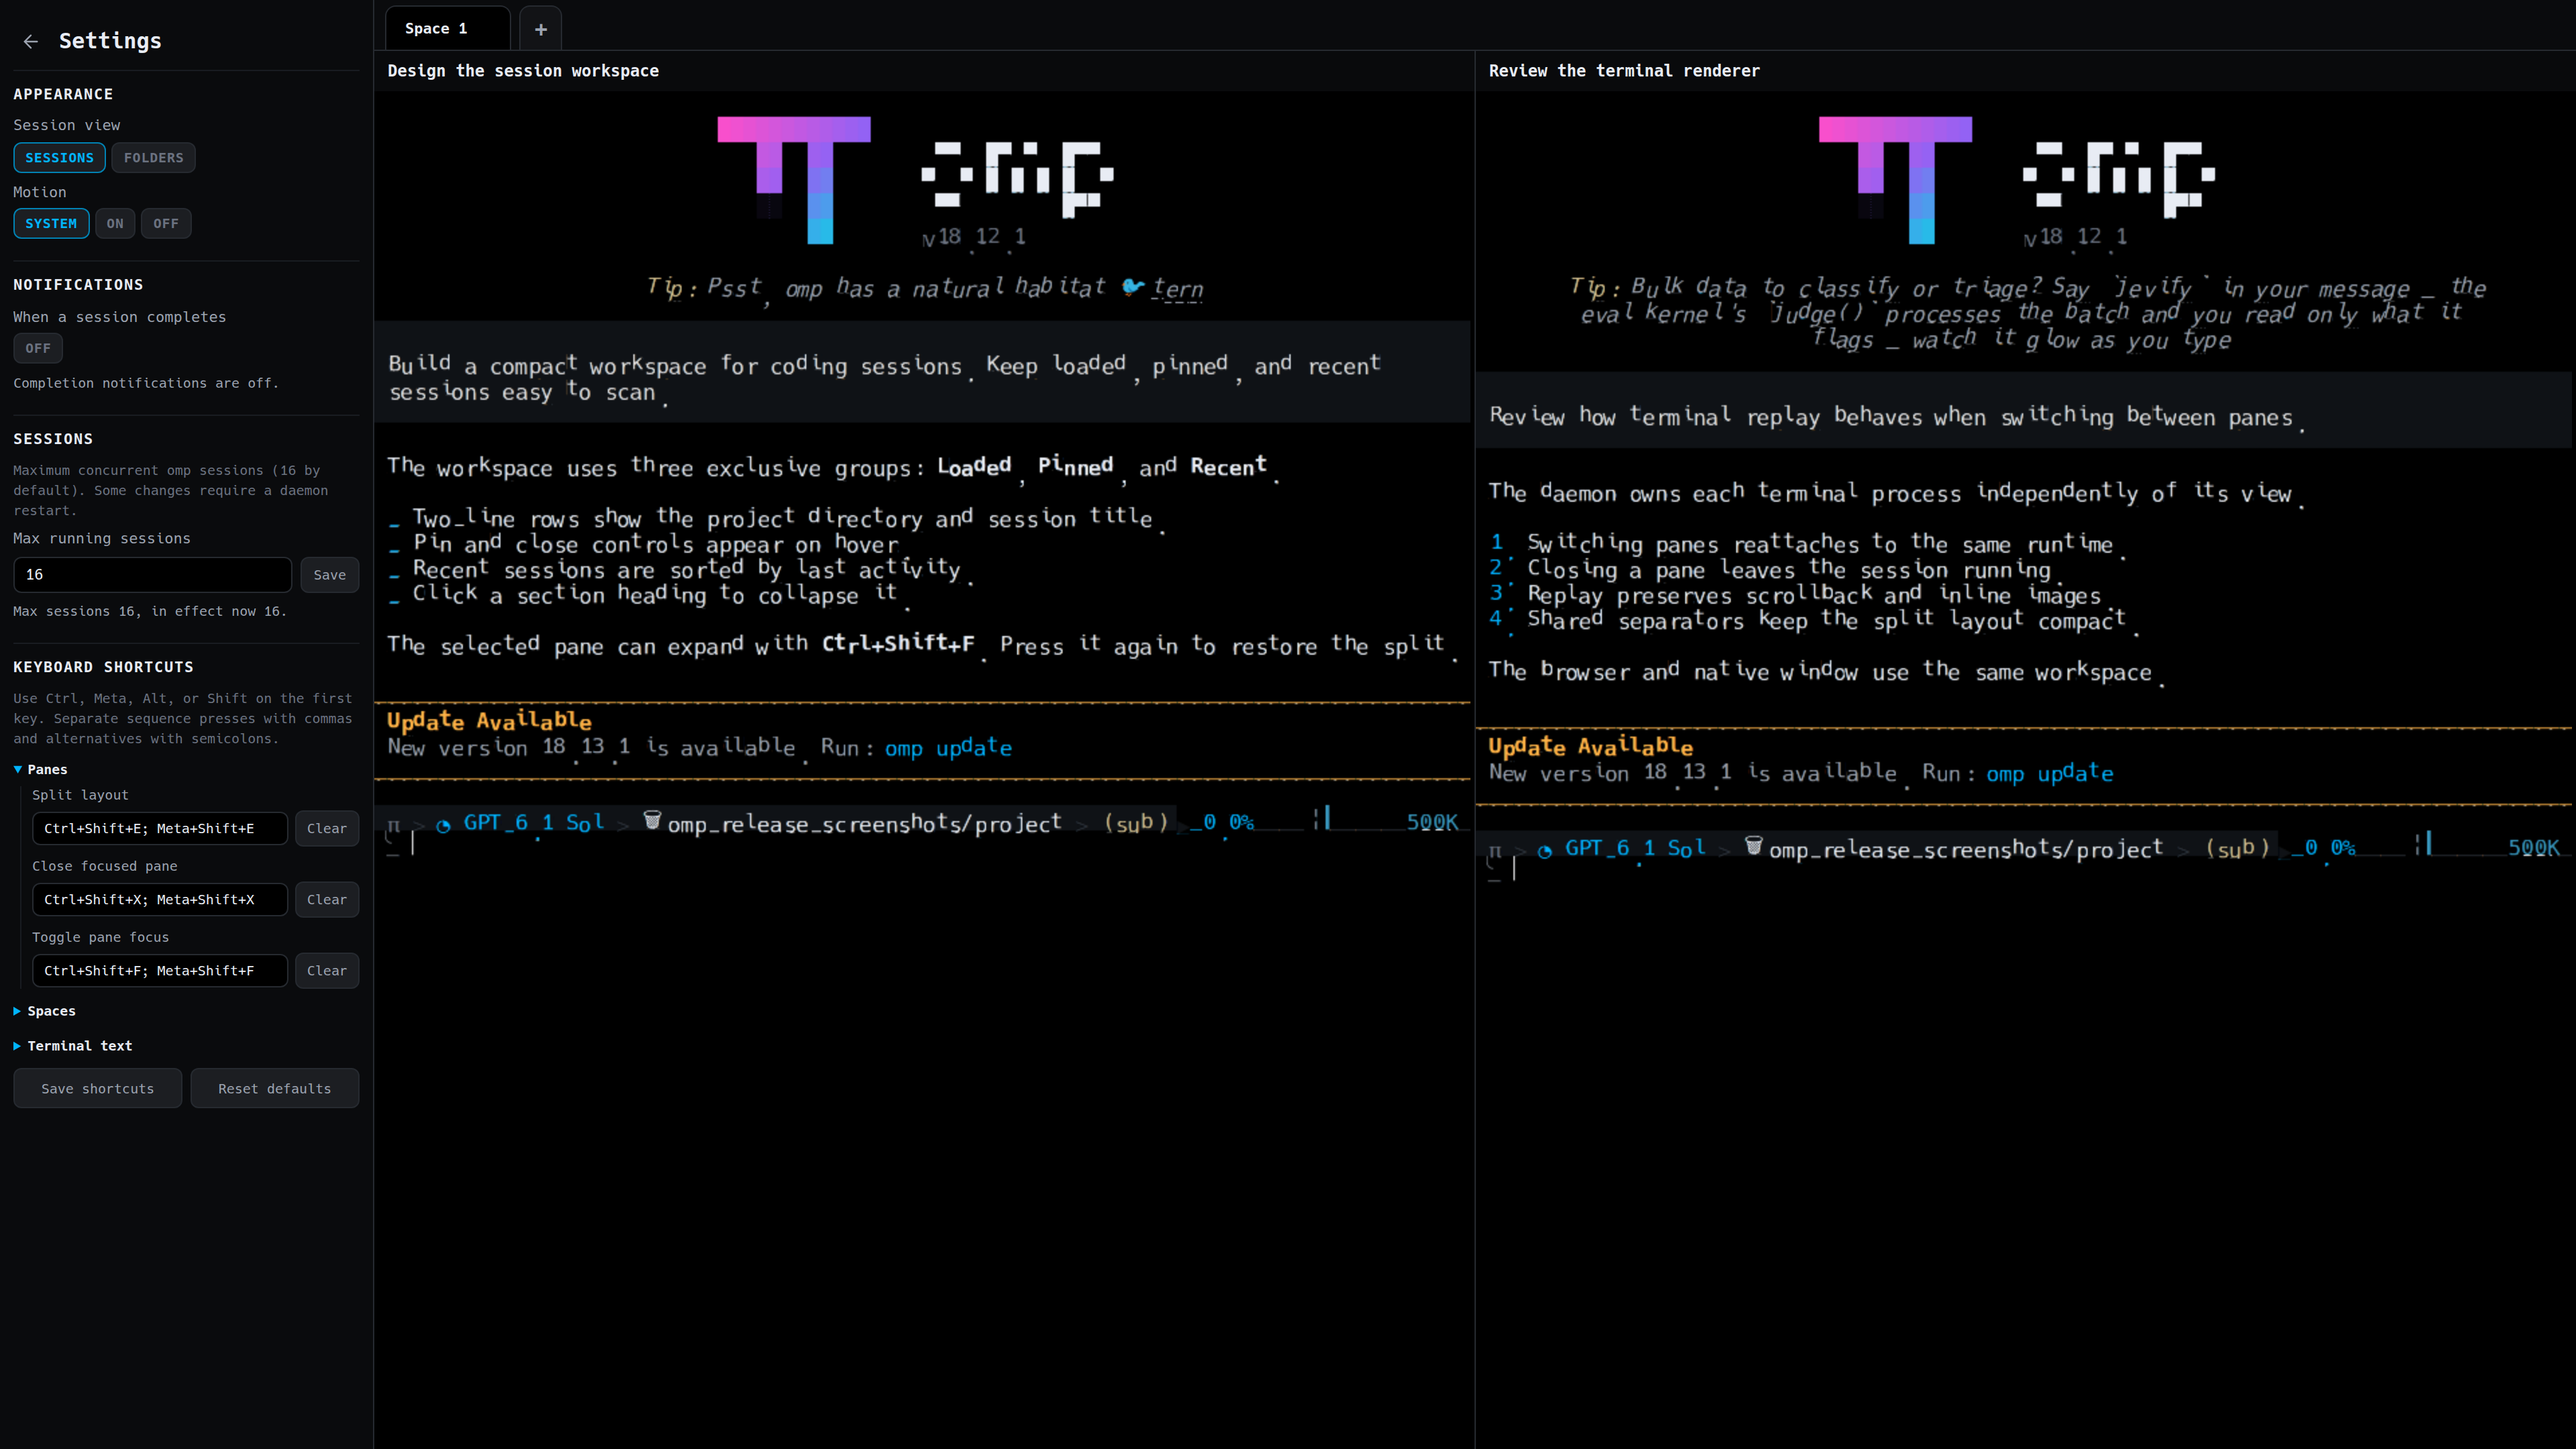
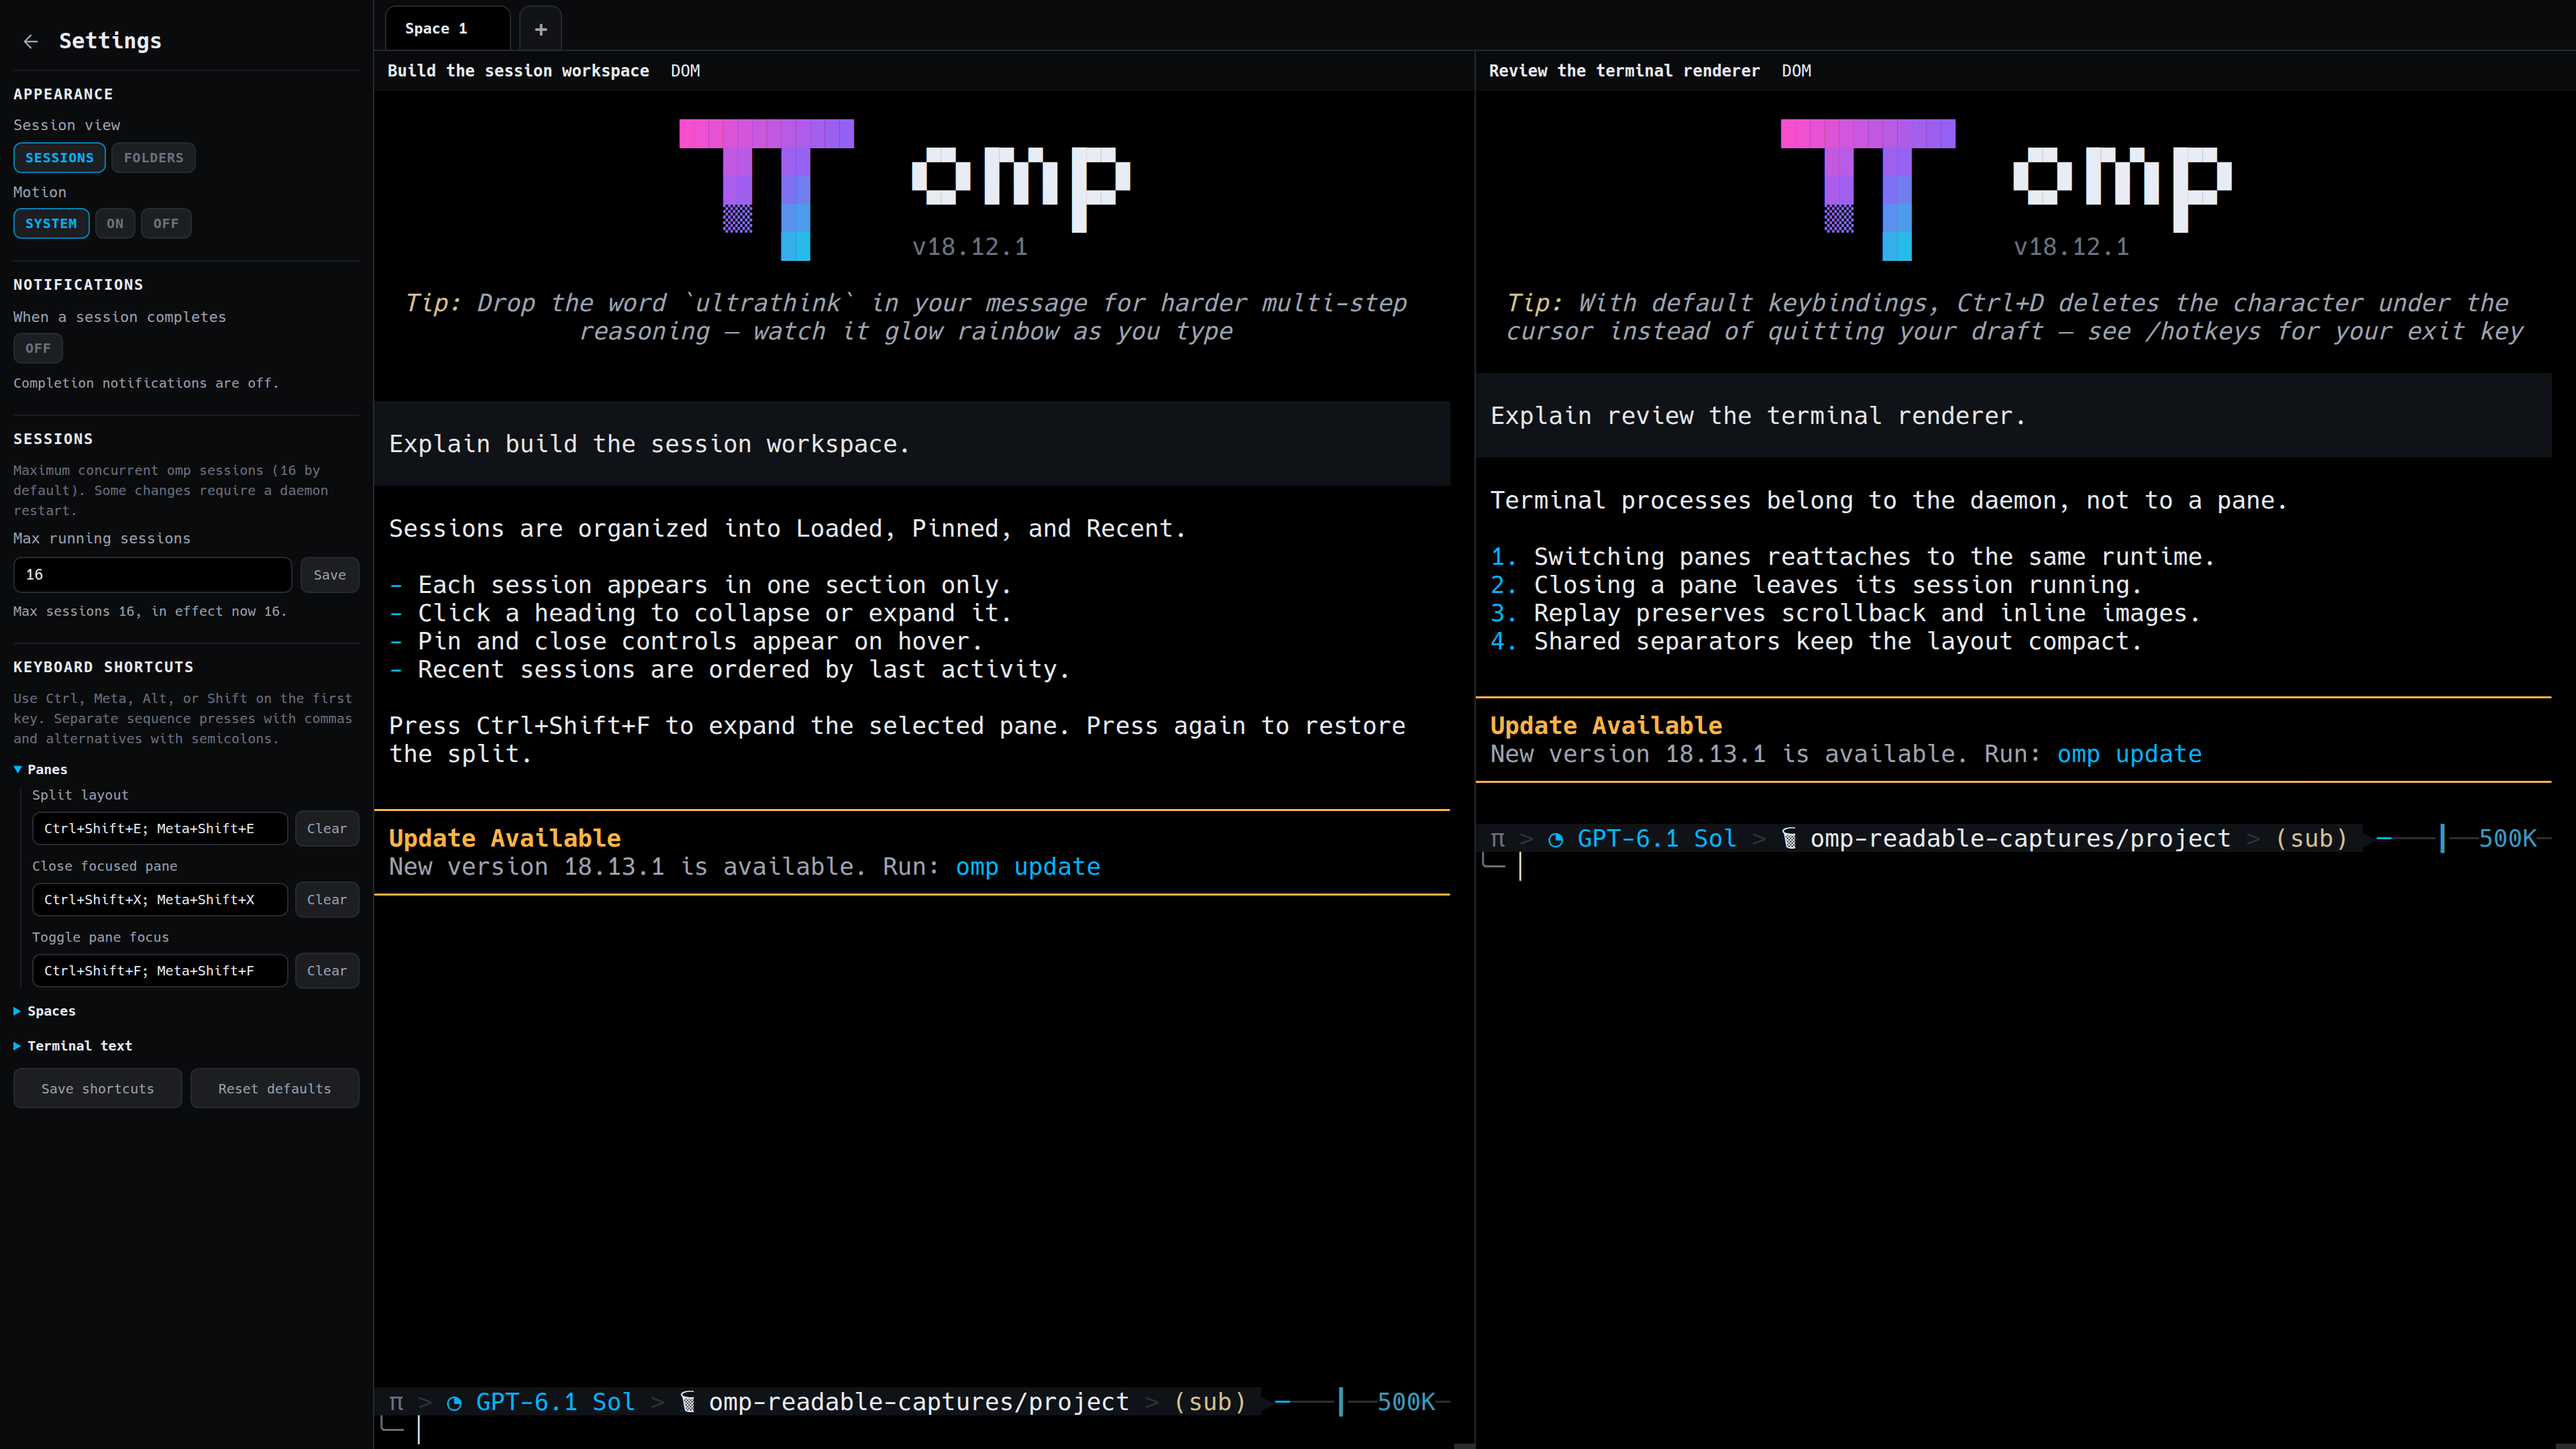
Replace distorted release captures with inspected DOM screenshots (#13)

diff --git a/README.md b/README.md
@@ -7,6 +7,8 @@ stop its session.
 ![OMP Desktop with compact session groups and a two-pane workspace](docs/images/workspace-v0.1.4.png)
 
 Captured at **3840 × 2160** using illustrative sample sessions in an isolated workspace.
+These captures use the supported DOM renderer with WebGL disabled in the capture browser; terminal text was
+inspected at native pixel size for baseline alignment and legibility.
 
 ## Requirements
 
